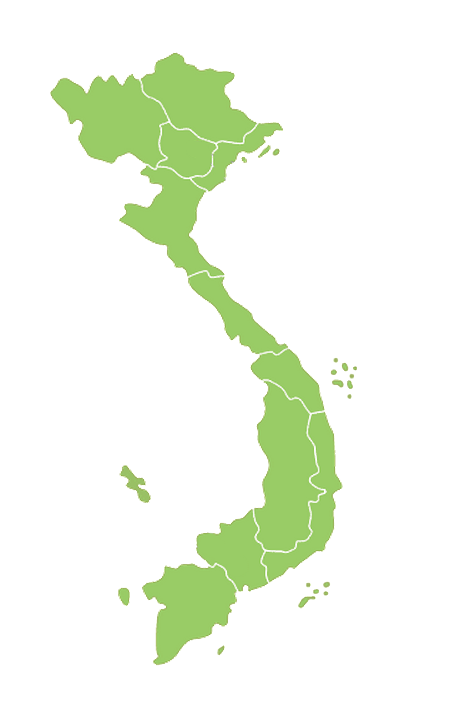
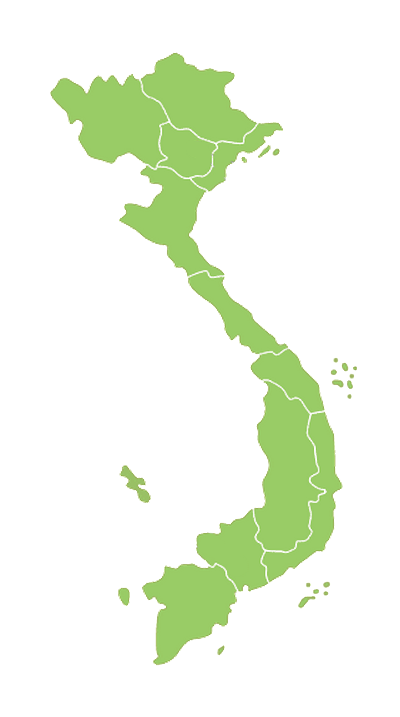
edit Vietnam_Map.img size

diff --git a/public/views/partials/home.html b/public/views/partials/home.html
@@ -6,7 +6,7 @@
                     <input type="text" class="form-control" placeholder="Search">
                     <div class="input-group-btn">
                         <button type="submit" class="btn btn-default">
-                            <span class="glyphicon glyphicon-search" style="height:20px;"></span>
+                            <span class="glyphicon glyphicon-search" style="height:18px;"></span>
                         </button>
                     </div>
                 </div>
@@ -19,7 +19,7 @@
             <div class="box">
                 <div class="row">
                     <div class="map">
-                        <img class="img-left" style="max-width: 50%; margin-top:10px;" src="assets/images/Vietnam_Map.png">
+                        <img class="img-left" style="max-width: 50%; margin-top:10px; margin-left:20px" src="assets/images/Vietnam_Map.png">
                     </div>
                     <div class="col-md-5">
                         <div>
@@ -175,13 +175,14 @@
         <div id="Filter" class="col-md-4">
             <div class="box">
                 <hr>
-                <h2 class="intro-text text-center">Hệ Thống Lọc</h2>
+                <h2 class="intro-text text-center">Hãy chọn theo cách của bạn!</h2>
                 <hr>
                 <form id="FilterForm" method="post" class="form-horizontal">
                     <div class="form-group">
                         <label class="col-md-4 control-label">Ngành</label>
-                        <div class="col-md-6 selectContainer">
+                        <div class="col-md-8 selectContainer">
                             <select name="Nganh" class="form-control">
+                                <option value="">---</option>
                                 <option value="">Điều tra trinh sát</option>
                                 <option value="">Quản lí nhà nước về An ninh-Trật tự</option>
                                 <option value="">Kĩ thuật phần mềm</option>
@@ -205,8 +206,9 @@
 
                     <div class="form-group">
                         <label class="col-md-4 control-label">Khối thi</label>
-                        <div class="col-md-6 selectContainer">
+                        <div class="col-md-8 selectContainer">
                             <select name="Khoi" class="form-control">
+                                <option value="">---</option>
                                 <option value="">Khối A</option>
                                 <option value="">Khối A1</option>
                                 <option value="">Khối B</option>
@@ -232,8 +234,9 @@
 
                     <div class="form-group">
                         <label class="col-md-4 control-label">Điểm chuẩn</label>
-                        <div class="col-md-6 selectContainer">
+                        <div class="col-md-8 selectContainer">
                             <select name="DiemChuan" class="form-control">
+                                <option value="">---</option>
                                 <option value="">Dưới 10</option>
                                 <option value="">Từ 10 - 15</option>
                                 <option value="">Từ 15 - 18</option>
@@ -247,8 +250,9 @@
 
                     <div class="form-group">
                         <label class="col-md-4 control-label">Vùng</label>
-                        <div class="col-md-6 selectContainer">
+                        <div class="col-md-8 selectContainer">
                             <select name="Vung" class="form-control">
+                                <option value="">---</option>
                                 <option value="">Miền Bắc</option>
                                 <option value="">Miền Trung</option>
                                 <option value="">Miền Nam</option>
@@ -258,8 +262,9 @@
 
                     <div class="form-group">
                         <label class="col-md-4 control-label">Thành phố</label>
-                        <div class="col-md-6 selectContainer">
+                        <div class="col-md-8 selectContainer">
                             <select name="ThanhPho" class="form-control">
+                                <option value="">---</option>
                                 <option value="">TP. Hồ Chí Minh</option>
                                 <option value="">Hà Nội</option>
                                 <option value="">Hải Phòng</option>
@@ -285,8 +290,9 @@
                     </div>
 
                     <div class="form-group">
-                        <div class="col-md-5 col-md-offset-7">
-                            <button type="submit" class="btn btn-default">Lọc!</button>
+                       <br>
+                        <div class="col-md-5 col-md-offset-4">
+                            <button type="submit" class="btn btn-default">Tìm kiếm</button>
                         </div>
                     </div>
                 </form>
